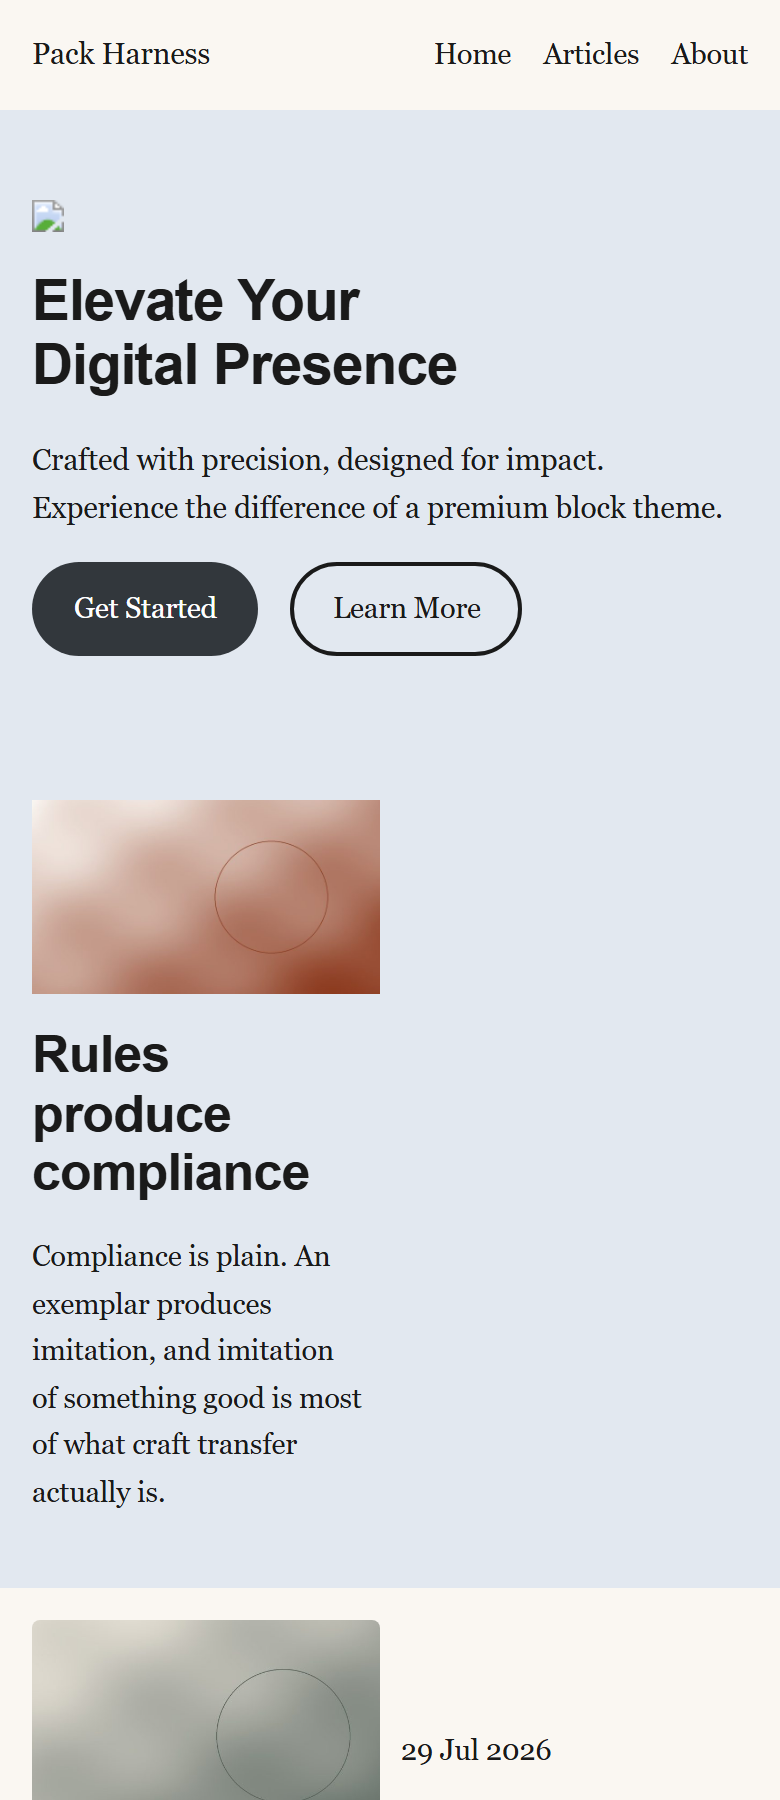
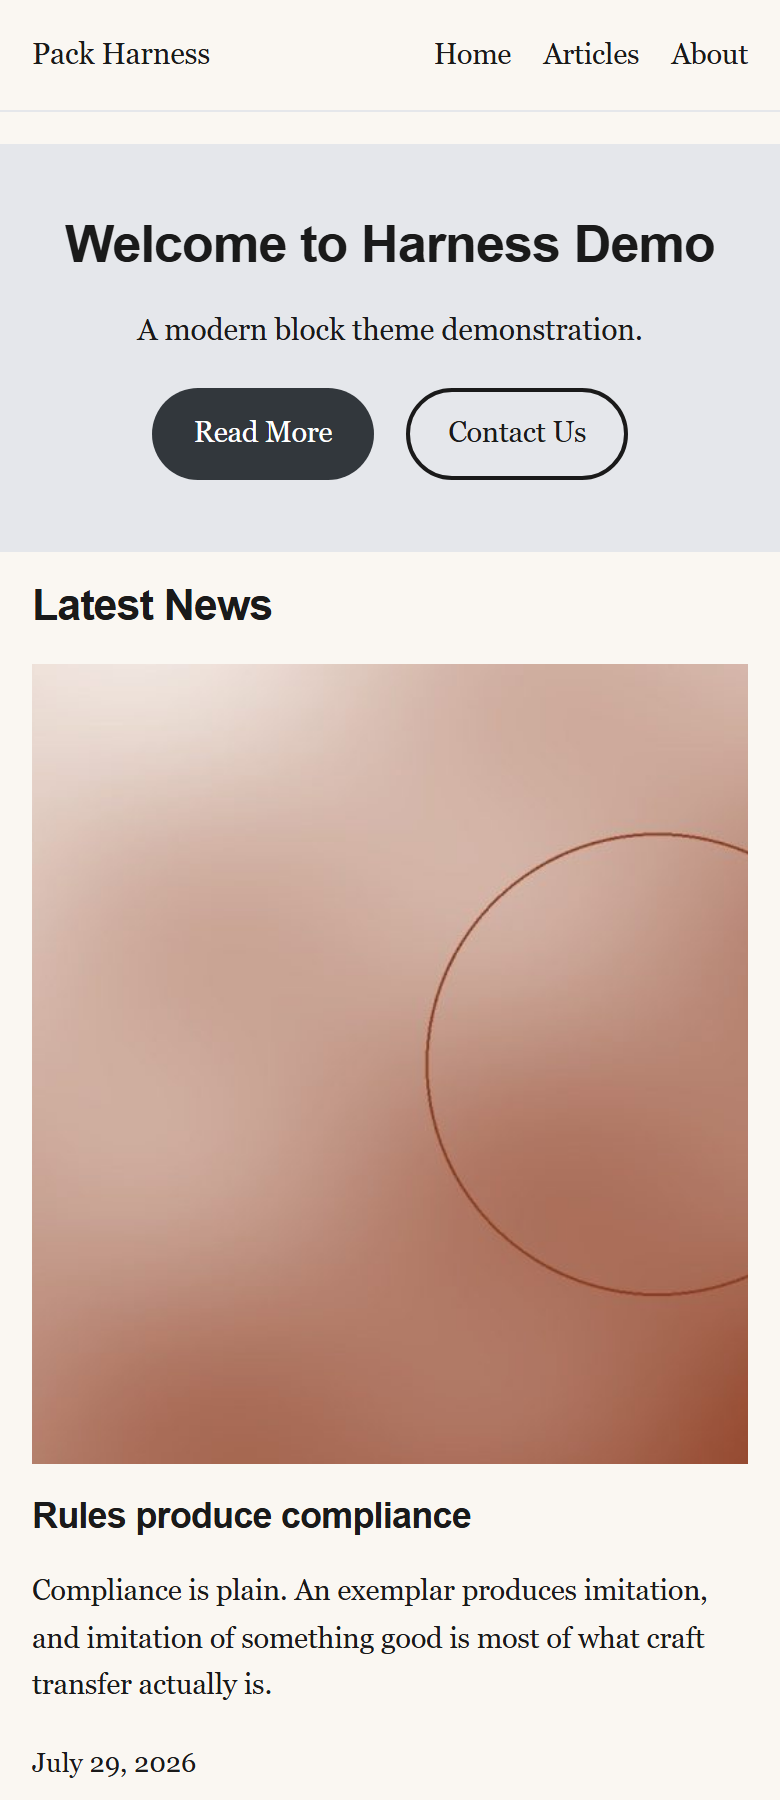
packs: premium at 14/14 — two records closed the two diagnosed gaps
The iteration loop working as designed: last run diagnosed the cover
hero using useFeaturedImage outside a post context (no image to resolve
on a front page) and mixed card aspect ratios. Two corpus records — a
front-page cover takes a palette gradient or media URL, never
useFeaturedImage; every card in a grid uses the SAME aspectRatio with
grid gap from the spacing presets — and one rerun later the premium
brief scores 14/14 with zero hard fails, 3 repairs. 93 records.

Full brief ladder, one day of pack iteration:
    basic     14/14
    extended  13/14
    premium   12/14 -> 14/14 after one pack pass

Diagnose from the render, write the record, re-run, measure. That is the
product loop a capability-kit marketplace sells: the pack is the thing
that improves, and every model that mounts it inherits the improvement.

diff --git a/packs/wordpress-theme/corpus.md b/packs/wordpress-theme/corpus.md
@@ -1434,3 +1434,47 @@ full width → card grid of recent posts → pullquote band on tint → stats
 band on dark → closing CTA band → three-column footer. Rhythm rule
 still holds: no two adjacent bands share a background, and the page
 pauses exactly once (the pullquote).
+
+## A front-page cover never uses useFeaturedImage
+
+`useFeaturedImage` on `core/cover` resolves the featured image of the
+CURRENT POST — and a front-page template outside the loop has no current
+post, so the cover renders a broken-image glyph over a flat band. On a
+front page the cover takes an explicit background: a gradient built from
+the palette, or a media-library URL. The gradient needs no asset and
+always matches the theme:
+
+```html
+<!-- wp:cover {"dimRatio":50,"overlayColor":"contrast","minHeight":70,"minHeightUnit":"vh","align":"full","gradient":"hero","customGradient":"linear-gradient(135deg,var(--wp--preset--color--contrast) 0%,var(--wp--preset--color--primary) 100%)","layout":{"type":"constrained"}} -->
+<div class="wp-block-cover alignfull" style="min-height:70vh">
+	<span aria-hidden="true" class="wp-block-cover__background has-background-dim-50 has-background-dim" style="background:linear-gradient(135deg,var(--wp--preset--color--contrast) 0%,var(--wp--preset--color--primary) 100%)"></span>
+	<div class="wp-block-cover__inner-container">
+		<!-- wp:heading {"level":1,"textColor":"base","fontSize":"huge"} -->
+		<h1 class="wp-block-heading has-base-color has-text-color has-huge-font-size">Notes from the measurement floor</h1>
+		<!-- /wp:heading -->
+	</div>
+</div>
+<!-- /wp:cover -->
+```
+
+`useFeaturedImage: true` is correct in exactly one place: a cover inside
+`wp:post-template` or on a single-post template, where a current post
+exists to supply the image.
+
+## Every card in a grid uses the same aspect ratio
+
+A card grid reads as designed only when every image is the same shape.
+Set the SAME `aspectRatio` on every `wp:post-featured-image` in the grid
+— `"3/2"` for cards, `"16/9"` for the featured entry — and never mix
+them. The grid gap comes from the spacing presets, not a raw value:
+
+```html
+<!-- wp:post-template {"layout":{"type":"grid","columnCount":2},"style":{"spacing":{"blockGap":"var:preset|spacing|40"}}} -->
+	<!-- wp:post-featured-image {"aspectRatio":"3/2","style":{"border":{"radius":"4px"}}} /-->
+	<!-- wp:post-date {"format":"j M Y"} /-->
+	<!-- wp:post-title {"level":3,"isLink":true} /-->
+<!-- /wp:post-template -->
+```
+
+Mixed aspect ratios in one grid — one card 16/9, the next natural-size —
+is the single most visible tell of an assembled-not-designed page.
